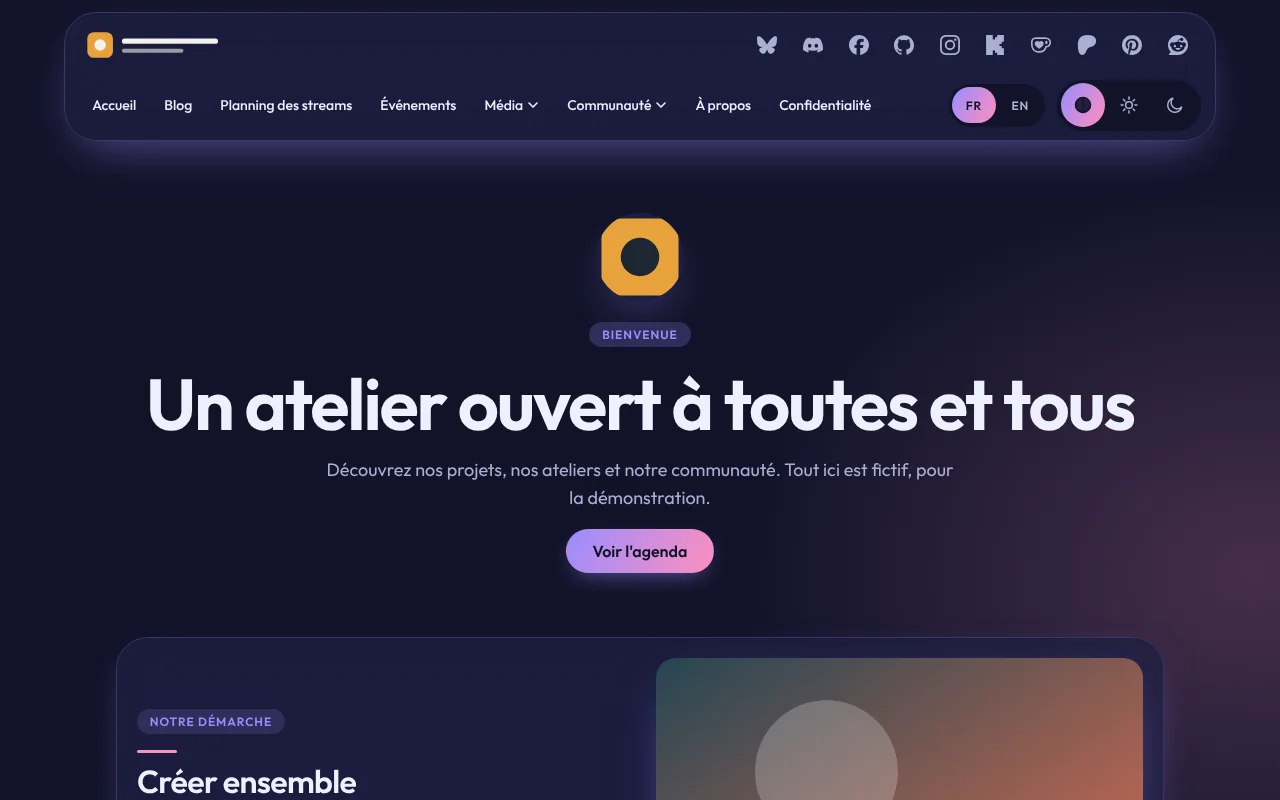
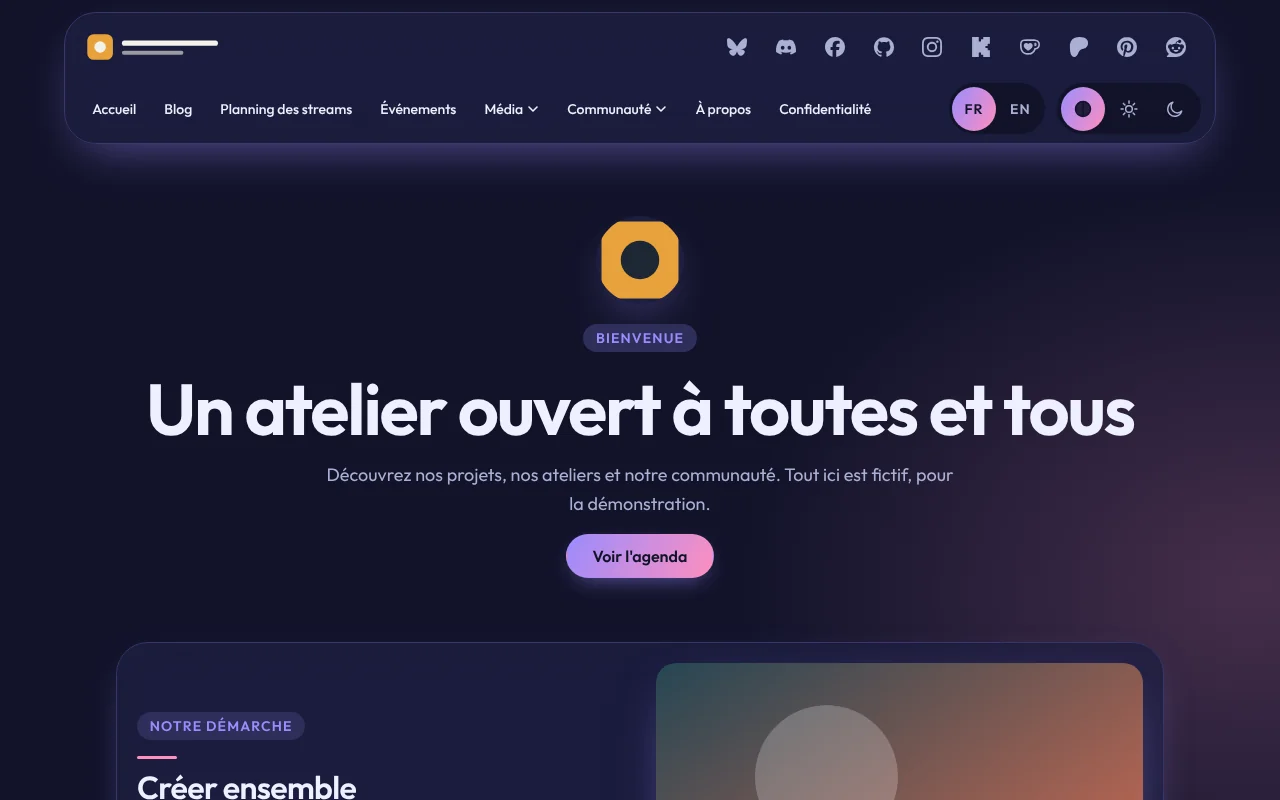
Skin : aperçus 1280x800 et 390x844 régénérés, menu mobile aligné à gauche, PROGRESS.md
Claude-Session: https://claude.ai/code/session_01ESirMuS3Ser2FpEY9j55tg

diff --git a/skins/verre-doux/skin.css b/skins/verre-doux/skin.css
@@ -66,7 +66,8 @@
     background-color: var(--v-surface);
     box-shadow: var(--sk-shadow-raised);
   }
-  [data-skin-part="nav-list"] [data-skin-part="nav-link"] { display: flex; width: 100%; min-height: var(--sk-target); align-items: center; }
+  [data-skin-part="nav-list"] [data-skin-part="nav-link"] { display: flex; width: 100%; min-height: var(--sk-target); align-items: center; justify-content: flex-start; text-align: left; }
+  [data-skin-part="socials"] { justify-content: flex-start; }
   [data-skin-part="submenu"] { padding-left: 0.75rem; }
 }
 @media (min-width: 40rem) {

diff --git a/PROGRESS.md b/PROGRESS.md
@@ -1,13 +1,12 @@
 # PROGRESS (état du travail, à supprimer avant la fusion dans main)
 
 ## Fait
-- skin.json, tokens.json, skin.css, polices WOFF2 + licences, images, README, LICENSE : présents ; `skin:check --core-version 0.4.0` sans erreur (aperçus webp réels, < 150 Ko).
-- Installation réelle par le service du cœur depuis un dépôt git local jetable : OK.
-- Preuve de contenu identique (textes, liens, images, titres, focalisables, tabulation) sur 13 pages x 4 largeurs x 2 modes : seul écart = ligne « Clair ou sombre » ajoutée par le cœur à /privacy et boutons de bascule (ajoutés par le cœur, pas par le skin).
-- Captures 12 pages x 4 largeurs x 2 modes : faites pour editorial-papier (sk-shots/final-ed) ; verre-doux : accueil/blog/article seulement (sk-shots/vd2).
+- `npm run skin:check -- skins/<id> --visual --strict --core-version 0.4.0` sans erreur ni avertissement (cœur feat/skins-int2 09710c8).
+- Boîtes intérieures des modules restylées par `module-html` ; texte des cartes aligné par `card-body` ; panneau d'appel à l'action lisible ; cibles 44 px.
+- Installation réelle par le service du cœur, preuve de contenu identique (seul écart : ligne « Clair ou sombre » de /privacy ajoutée par le cœur), menu mobile et bascule de mode vérifiés, captures 12 pages x 4 largeurs x 2 modes, aperçus 1280x800 et 390x844.
 
 ## Reste
-- Rien d'obligatoire. Les aperçus webp sont maintenant de vraies captures. À refaire si le skin change. Supprimer ce fichier avant la fusion dans main.
+- Rien d'obligatoire. Supprimer ce fichier avant la fusion dans main.
 
 ## Commandes (outils dans /tmp/claude-0/-home-user/4e3492ee-8e17-57de-8380-ae93be24b42a/scratchpad/sk-tools/)
 - Cœur : /dev/shm/sk-core (branche feat/skins-int, construit) ; instantané : /dev/shm/sk-visual/snapshot (`VISUAL_ROOT=/dev/shm/sk-visual npm run visual:prepare`).
